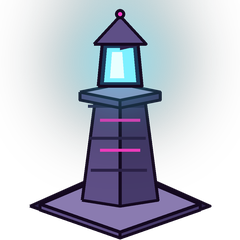
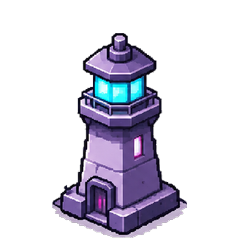
v8.20: nouveaux visuels pixel art (ruines, balise, phare, capsule, noyau, drone EMP, cristal)
Claude-Session: https://claude.ai/code/session_011HZeq7nMyePUSvmzg3f7Gx

diff --git a/index.html b/index.html
@@ -4,7 +4,7 @@
 <meta charset="utf-8">
 <script>if(navigator.standalone)document.documentElement.classList.add('sa')</script>
 <meta name="viewport" content="width=device-width,initial-scale=1,viewport-fit=cover">
-<title>Mechkawaii San 三 v8.19</title>
+<title>Mechkawaii San 三 v8.20</title>
 <link rel="manifest" href="manifest.webmanifest">
 <link rel="icon" type="image/png" href="icons/icon-192.png">
 <link rel="apple-touch-icon" href="icons/apple-touch-icon.png">
@@ -240,7 +240,7 @@ html.sa #game.on{padding-top:max(60px,env(safe-area-inset-top))!important}
     </div>
     <button class="btn cy sm" id="bHelp">COMMENT JOUER</button>
   </div>
-  <div class="foot">Version 8.19 · cartes arrondies</div>
+  <div class="foot">Version 8.20 · nouveaux visuels pixel art</div>
 </main>
 
 <main id="select" class="screen">
@@ -1987,11 +1987,11 @@ function drawHeroTo(cv,id,f=0,face=false){const g=cv.getContext('2d'),sc=spriteC
 function tickScore(){if(!G)return;if(G.shown<G.score){G.shown=Math.min(G.score,G.shown+Math.max(1,Math.ceil((G.score-G.shown)/8)))}$('hScore').textContent=G?G.shown:0}
 
 
-/* ---------- essai HD (v8.19) : sprites et tuiles haute résolution, ?hd=0 pour revenir au pixel art ---------- */
+/* ---------- essai HD (v8.20) : sprites et tuiles haute résolution, ?hd=0 pour revenir au pixel art ---------- */
 const HD={roads:'new',p:{},on:true,set:'mix',tiles:null,b:{},n:0,cache:new Map(),CELL:128};
 const HDNP=HD.set==='np';HD.dir=HDNP?'assets/np/':HD.set==='mix'?'assets/mix/':'assets/hd/';HD.G0=HDNP?14:34;HD.G1=HDNP?114:94;HD.T1=HDNP?14:28; // terrain NeoPixel par défaut ; ?set=ref pour le terrain de la planche
 (function(){if(!HD.on)return;const ld=(src,cb)=>{const im=new Image();im.onload=()=>{cb(im);HD.n++;groundKey='';HD.cache.clear();try{if(G)updateHud()}catch(e){}};im.src=src};
-  ld(HD.dir+'tiles.png',im=>HD.tiles=im);ld('assets/np/tiles.png',im=>HD.sol=im);[1,2,3,4,5,6,9,10,11,16,17,20,21].forEach(t=>ld('assets/hd/b'+t+'.png',im=>HD.b[t]=im));[0,1,2,3,4].forEach(v=>ld('assets/hd/p'+v+'.png',im=>HD.p[v]=im))})(); // bâtiments : toujours ceux de la planche (assets/hd)
+  ld(HD.dir+'tiles.png',im=>HD.tiles=im);ld('assets/np/tiles.png',im=>HD.sol=im);[1,2,3,4,5,6,9,10,11,16,17,20,21].forEach(t=>ld('assets/hd/b'+t+'.png?v=820',im=>HD.b[t]=im));[0,1,2,3,4].forEach(v=>ld('assets/hd/p'+v+'.png?v=820',im=>HD.p[v]=im))})(); // bâtiments : toujours ceux de la planche (assets/hd)
 const hdReady=()=>HD.on&&HD.n>=7;
 // planche assets/hd/tiles.png (8 colonnes de 128 px) : 0-2 sols ; 3+3*forme+état routes (normal, fissures, gravats) ; 51 asphalte de place
 const HDS={H:0,V:1,cSW:2,cNW:3,cNE:4,cES:5,tN:6,tE:7,tS:8,tW:9,X:10,bN:11,bE:12,bS:13,bW:14,dot:15};
